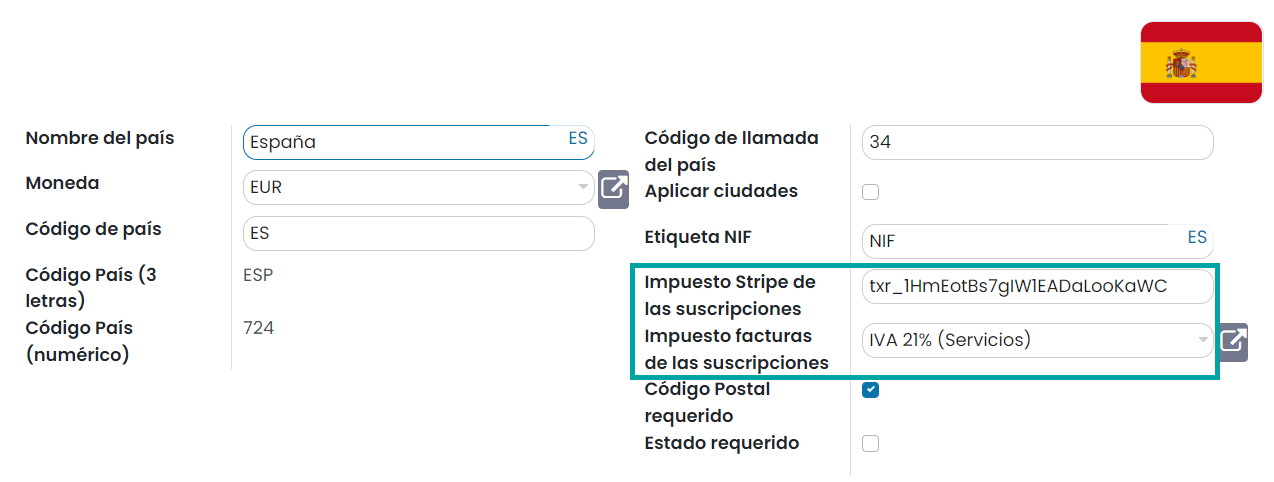
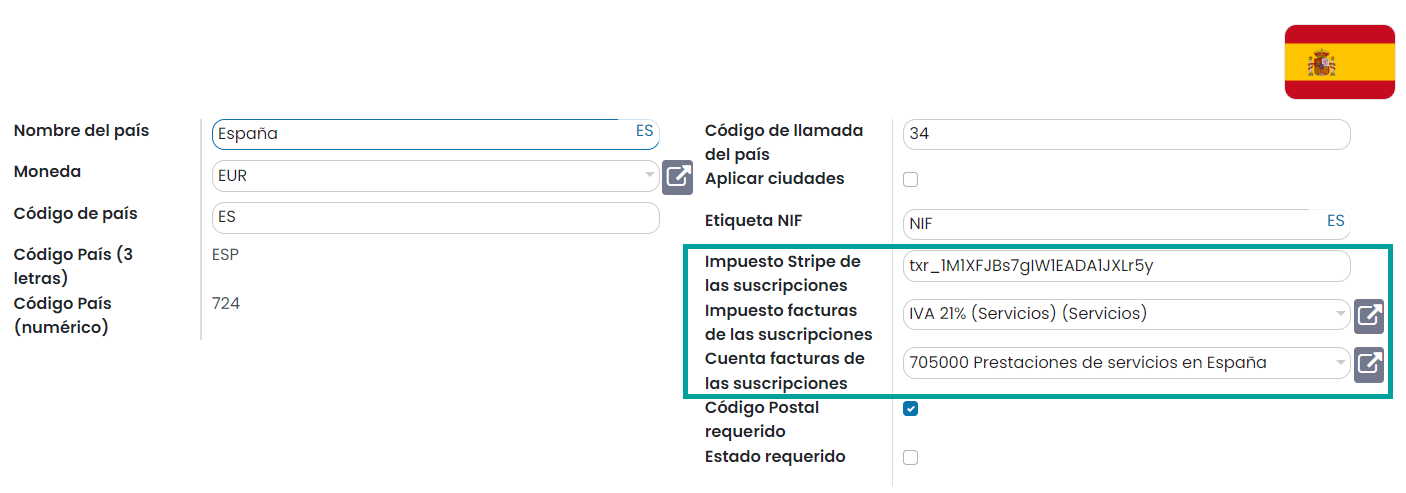
[ADD] suscripciones: cuentas contables parametrizables por país/provincia

diff --git a/content/aplicaciones/ventas/suscripciones/stripe.rst b/content/aplicaciones/ventas/suscripciones/stripe.rst
@@ -89,15 +89,6 @@ y una vez finalizada la instalación, deberás informar los siguientes campos:
 
 -  **Usuario responsable**: Usuario al que se asignarán las tareas asociadas con las suscripciones.
 
--  **Compañía**: Compañía que se asociará a las facturas generadas en las suscripciones.
-
-   .. important::
-      En caso de trabajar con múltiples compañías, se deberá seleccionar la compañía con la que se ha configurado el plan
-      contable y los impuestos utilizados en las suscripciones. En caso de existir incongruencias, la creación de la factura
-      fallará, ya que no es posible crear una factura cuya cuenta contable o impuestos sean distintos a la compañía utilizada.
-
--  **Cuenta contable**: Cuenta contable que se asociará a las facturas generadas en las suscripciones.
-
 -  **Clave Recaptcha**: Debes introducir la `clave del sitio Recaptcha <http://www.google.com/recaptcha/admin>`__. La
    clave creada debe ser de tipo ReCaptcha v2 y el dominio debe coincidir con el dominio de tu instancia Daeris.
 
@@ -221,6 +212,8 @@ y selecciona el país para el que quieres configurar el impuesto. Desde el formu
 -  **Impuesto Stripe de las suscripciones**: Identificador del tipo de impuesto de Stripe.
 
 -  **Impuesto facturas de las suscripciones**: Impuesto que se añadirá a las facturas de las suscripciones creadas en Daeris.
+
+- **Cuenta facturas de las suscripciones**: Cuenta contable que se añadirá a las facturas de las suscripciones creadas en Daeris.
 
 .. important::
    El porcentaje de impuesto debe coincidir en ambos impuestos, ya que, si no, se producirán incoherencias entre el monto
